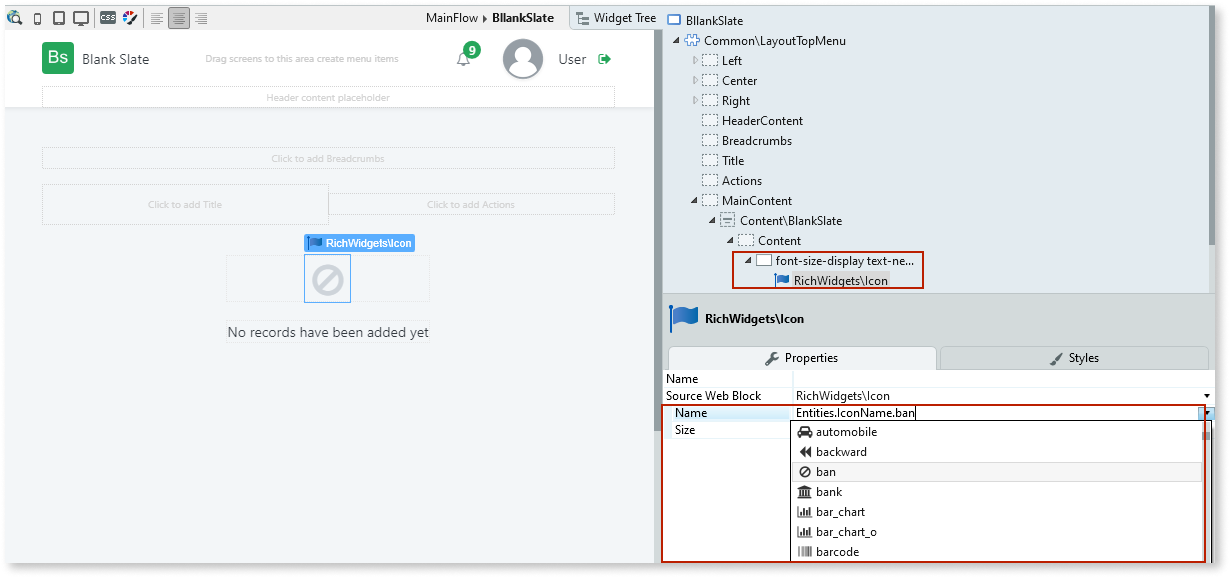
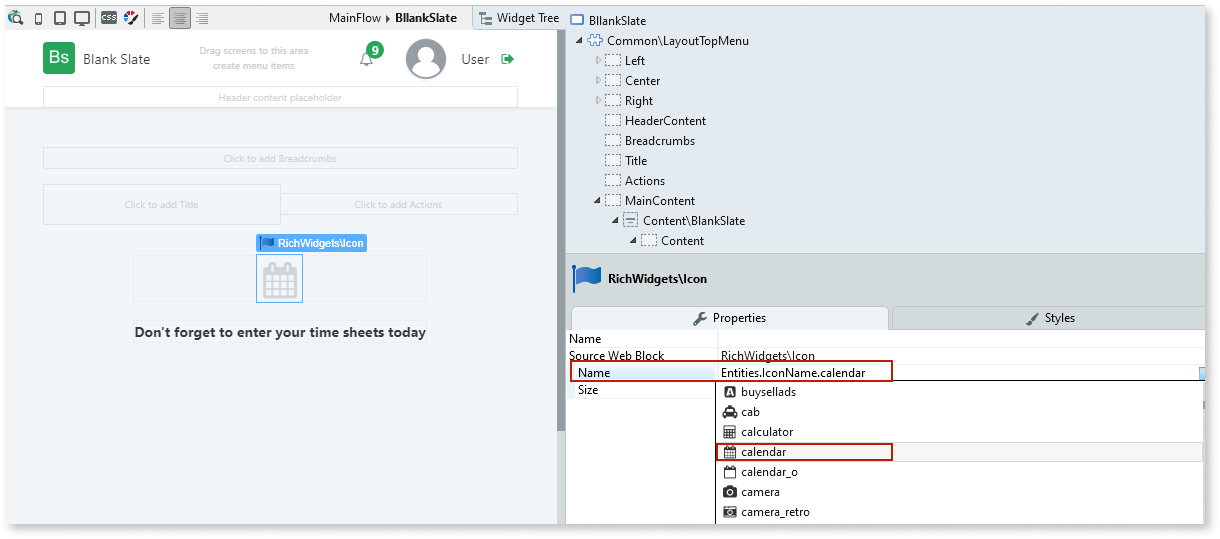
Updates made to: Blank Slate, Card Background, Bullets, Card Sectioned UI Patterns

diff --git a/src/develop/ui/patterns/web/content/blankslate.md b/src/develop/ui/patterns/web/content/blankslate.md
@@ -4,9 +4,9 @@ summary: Blank Slate informs end users when they start using the application, co
 ---
 
 # Blank Slate
-You can use the Blank State UI Pattern to inform end users when they start using the application, complete a task, or when there is no data available for display.
+You can use the Blank State UI Pattern to inform end users, for example, to complete a task or when there is no data available for display etc.
 
-![](<images/blankslate-1.png>)
+![](<images/blankslate-1-ss.png>)
 
 **How to use the Blank Slate UI Pattern**
 
@@ -20,9 +20,9 @@ You can use the Blank State UI Pattern to inform end users when they start using
 
     ![](<images/blankslate-3-ss.png>)
 
-    By default, the Blank Slate widget contains an icon and some text. You can change these if required.
+    By default, the Blank Slate widget contains icon and text placeholders. 
 
-1. Add your content to the placeholder. In this example we change the icon. To do this, from the Widget Tree, select the Icon, and on the **Properties** tab, from the **Name** drop-down, select the icon you want to display. 
+1. Add your content to the placeholders. In this example we change the icon to a camera icon by selecting Icon placeholder, and on the **Properties** tab, from the **Name** drop-down, selecting the camera icon. We also enter new text in the Text placeholder. 
 
     ![](<images/blankslate-4-ss.png>)
 

diff --git a/src/ref/ui-patterns/web/cardsectioned.md b/src/ref/ui-patterns/web/cardsectioned.md
@@ -22,7 +22,7 @@ summary: Advanced use cases for the Card Sectioned UI Pattern.
 
 ### Change orientation according to device
 
-1. Drag the CardSectioned Pattern into the preview.
+1. Drag the Card Sectioned Pattern into the preview.
 
 1. Set the Orientation parameter to `If(IsPhone(),Entities.Orientation.Vertical, Entities.Orientation.Horizontal)`. Use the server action IsPhone as the condition to set the orientation for a phone. You can also use the IsTablet action or invert the False & True statements, according to your needs. This way, the CardSectioned pattern will be horizontal on Desktop and Tablet. On the Phone, it will be vertical.
 
@@ -37,4 +37,4 @@ summary: Advanced use cases for the Card Sectioned UI Pattern.
 ![](<images/cardsectioned-4.png>)
 
 ## Notes
-The parameter IsRight only works if the parameter Orientation is not Vertical.
+The parameter IsRight only works if the parameter Orientation is Not Vertical.

diff --git a/src/ref/ui-patterns/web/bullets.md b/src/ref/ui-patterns/web/bullets.md
@@ -16,8 +16,8 @@ summary: Advanced use cases for the Bullets UI Pattern.
 1. Drag the Bullets Pattern into the preview.
 1. In the Content placeholder, drag a ListRecords widget.
 1. Set the Line Separator property of the ListRecords to None.
-1. In the ListRecords widget, drag a BulletItem pattern.
-1. Inside the BulletItem pattern, use expressions to display the content.
+1. In the ListRecords widget, drag a Bullet Item pattern.
+1. Inside the Bullet Item pattern, use expressions to display the content.
 1. Publish and test.
 
     ![](<images/bullets-3-ss.png>)

diff --git a/src/develop/ui/patterns/web/content/cardbackground.md b/src/develop/ui/patterns/web/content/cardbackground.md
@@ -7,7 +7,7 @@ summary: Card Background groups short pieces of information and highlights them 
 
 You can use the Card Background UI Pattern to group small pieces of information and highlight them on the screen using a background image. The information is grouped into a small block that is easily noticeable on-screen. 
 
-![](<images/cardbackground-1.png>)
+![](<images/cardbackground-1-ss.png>)
 
 
 **How to use the Card Background UI Pattern**

diff --git a/src/ref/ui-patterns/web/blankslate.md b/src/ref/ui-patterns/web/blankslate.md
@@ -31,7 +31,7 @@ summary: Advanced use cases for the Blank Slate UI Pattern.
 
     ![](<images/blankslate-3-ss.png>)
 
-1. Inside the True branch of the condition, use the BlankSlate Pattern.
+1. Inside the True branch of the condition, use the Blank Slate Pattern.
 1. Inside the False branch of the condition, use your list.
 
     ![](<images/blankslate-4-ss.png>)
